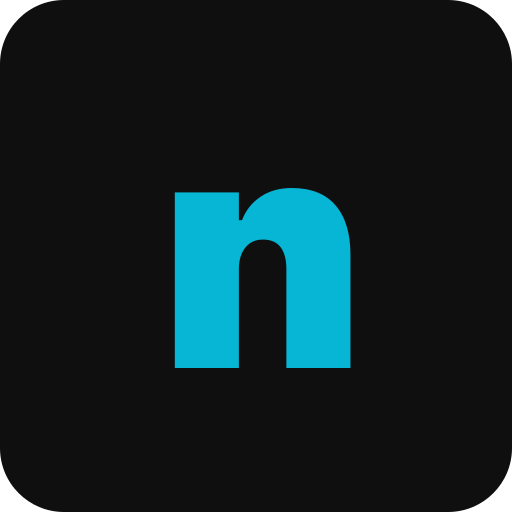
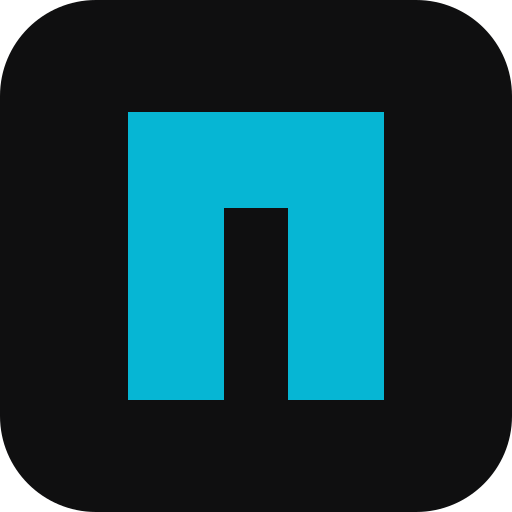
feat(nsgame): live ticker, positions, win shimmer, brand mark, nsgame.org
Big consolidation across five parallel work streams. nsgame is now a
real one-page betting product on a real domain.

==== nsgame.org live ====

DNS: nsgame.org + www.nsgame.org → 178.104.243.94 (Cloudflare DNS-only)
Cert: Let's Encrypt DNS-01 via existing CF token, auto-renew via certbot.timer
nginx: /etc/nginx/sites-available/nsgame.org → Traefik :8080, SSE-friendly
Dokploy app: nsgame (id b-VaItI-zY0kdiLfMoBkQ), nixpacks build, mirror
  at github.com/General-Market/nsgame
Webhook: https://generalmarket.io/_dokploy/api/deploy/sbIOAWK7EU0hkMneh7skz
Postgres reach: 172.17.0.1 / 172.18.0.1 (docker swarm — host.docker.internal
  doesn't resolve in swarm mode); pg_hba opened for 172.17/172.18/10.0
Auto-deploy: scripts/sync-nsgame.sh on every push that touches nsgame/
nixpacks.toml: pinned Node 20, npm install --ignore-scripts (Trezor usb
  native build was failing without libusb headers)

==== Live data ====

useSourceHistory + /api/sources/[id]/history — 30-min ring buffer,
proxies to data-node graceful empty.
useNextSlotForCatalog — auto-advance helper.
DualTimer — close + settle countdowns with twin progress bars; auto-flips
  to 'settling' state then auto-advances to next slot at settlement.
QuoteDrift — recent bets enriched with implied YES% at the moment,
  newest-first list + sparkline of YES% drift.

==== User positions + win shimmer ====

/api/positions/[wallet] — server proxy joins bet_placed / market_closed /
  market_resolved / claimed in one query.
[…]

diff --git a/nsgame/components/markets/BetSheet.tsx b/nsgame/components/markets/BetSheet.tsx
@@ -17,6 +17,7 @@ import {
 } from '@/lib/markets/hooks'
 import { CountdownTimer } from './CountdownTimer'
 import FaucetButton from './FaucetButton'
+import { MyPositions } from './MyPositions'
 
 // Bottom sheet on mobile. Right drawer on desktop. The size of the
 // commitment is small; the framing should match.
@@ -155,8 +156,10 @@ export function BetSheet({ slot, onClose }: BetSheetProps) {
             exit={{ y: '100%', opacity: 0 }}
             transition={{ type: 'spring', stiffness: 320, damping: 32 }}
           >
-            <div className="flex items-start justify-between gap-3 border-b border-zinc-200 px-5 py-4">
-              <div className="space-y-1">
+            <div className="border-b border-zinc-200 px-5 pb-4 pt-3">
+              <MyPositions compact className="mb-3" />
+              <div className="flex items-start justify-between gap-3">
+                <div className="space-y-1">
                 <p className="font-mono text-[10px] uppercase tracking-[0.12em] text-zinc-500">
                   {slot.sourceName.replace(/^tubes_/, '')} · closes in{' '}
                   <CountdownTimer target={slot.closeTime} closedLabel="closed" />
@@ -189,6 +192,7 @@ export function BetSheet({ slot, onClose }: BetSheetProps) {
                   <path strokeLinecap="round" strokeLinejoin="round" d="M6 6l12 12M6 18L18 6" />
                 </svg>
               </button>
+              </div>
             </div>
 
             <div className="flex-1 space-y-5 overflow-y-auto px-5 py-5">

diff --git a/nsgame/app/icon.tsx b/nsgame/app/icon.tsx
@@ -3,8 +3,7 @@ import { ImageResponse } from 'next/og'
 export const size = { width: 32, height: 32 }
 export const contentType = 'image/png'
 
-// Favicon — charcoal tile, uniform 8px corners, single teal lowercase n.
-// Mirrors /public/brand/nsgame-icon.svg.
+// Favicon — geometric n monogram, teal on charcoal. Mirrors /public/brand/nsgame-icon.svg.
 export default function Icon() {
   return new ImageResponse(
     (
@@ -12,20 +11,19 @@ export default function Icon() {
         style={{
           width: '100%',
           height: '100%',
-          background: '#0F0F10',
-          borderRadius: 4,
           display: 'flex',
           alignItems: 'center',
           justifyContent: 'center',
-          color: '#06B6D4',
-          fontSize: 22,
-          fontWeight: 800,
-          letterSpacing: -1,
-          lineHeight: 1,
-          fontFamily: 'system-ui, -apple-system, sans-serif',
+          background: '#0F0F10',
+          borderRadius: 6,
         }}
       >
-        n
+        <svg width="32" height="32" viewBox="0 0 64 64" xmlns="http://www.w3.org/2000/svg">
+          <rect width="64" height="64" rx="12" ry="12" fill="#0F0F10" />
+          <rect x="16" y="14" width="32" height="12" fill="#06B6D4" />
+          <rect x="16" y="14" width="12" height="36" fill="#06B6D4" />
+          <rect x="36" y="18" width="12" height="32" fill="#06B6D4" />
+        </svg>
       </div>
     ),
     { ...size },

diff --git a/nsgame/app/apple-icon.tsx b/nsgame/app/apple-icon.tsx
@@ -3,7 +3,7 @@ import { ImageResponse } from 'next/og'
 export const size = { width: 180, height: 180 }
 export const contentType = 'image/png'
 
-// Apple touch icon — same charcoal tile, larger canvas, single teal n.
+// Apple touch icon — geometric n monogram, teal on charcoal, larger canvas.
 // iOS rounds the outer corners itself; we hold consistent inner geometry.
 export default function AppleIcon() {
   return new ImageResponse(
@@ -12,19 +12,17 @@ export default function AppleIcon() {
         style={{
           width: '100%',
           height: '100%',
-          background: '#0F0F10',
           display: 'flex',
           alignItems: 'center',
           justifyContent: 'center',
-          color: '#06B6D4',
-          fontSize: 124,
-          fontWeight: 800,
-          letterSpacing: -4,
-          lineHeight: 1,
-          fontFamily: 'system-ui, -apple-system, sans-serif',
+          background: '#0F0F10',
         }}
       >
-        n
+        <svg width="180" height="180" viewBox="0 0 64 64" xmlns="http://www.w3.org/2000/svg">
+          <rect x="16" y="14" width="32" height="12" fill="#06B6D4" />
+          <rect x="16" y="14" width="12" height="36" fill="#06B6D4" />
+          <rect x="36" y="18" width="12" height="32" fill="#06B6D4" />
+        </svg>
       </div>
     ),
     { ...size },

diff --git a/nsgame/components/markets/NavBar.tsx b/nsgame/components/markets/NavBar.tsx
@@ -1,5 +1,6 @@
 'use client'
 
+import Image from 'next/image'
 import { useEffect, useState } from 'react'
 import { useUnifiedWalletContext } from '@jup-ag/wallet-adapter'
 import { useWallet } from '@/hooks/useWallet'
@@ -18,10 +19,15 @@ export function NavBar() {
   return (
     <header className="sticky top-0 z-40 border-b border-zinc-200/60 bg-white/85 backdrop-blur supports-[backdrop-filter]:bg-white/70">
       <div className="mx-auto flex h-14 max-w-7xl items-center justify-between px-4 sm:h-16 sm:px-6">
-        <a href="/" className="flex items-center gap-1.5 shrink-0">
-          <span className="text-[18px] font-semibold tracking-[-0.02em] text-zinc-900">
-            nsgame
-          </span>
+        <a href="/" className="flex items-center gap-2 shrink-0" aria-label="nsgame home">
+          <Image
+            src="/brand/nsgame-logo.svg"
+            alt="nsgame"
+            width={150}
+            height={40}
+            priority
+            className="h-5 w-auto sm:h-6"
+          />
           <span className="hidden font-mono text-[11px] font-light text-zinc-300 sm:inline">
             ·
           </span>

diff --git a/nsgame/components/markets/QuoteDrift.tsx b/nsgame/components/markets/QuoteDrift.tsx
@@ -3,7 +3,17 @@
 import { useMemo } from 'react'
 import { useNowSecs } from './CountdownTimer'
 import { SparkLine } from './SparkLine'
-import type { QuoteDriftEntry } from '@/lib/markets/hooks'
+
+// Shape produced by useQuoteDrift in lib/markets/hooks.ts.
+export interface QuoteDriftEntry {
+  sig: string
+  ts: number
+  side: 'yes' | 'no'
+  owner: string
+  amount: bigint
+  yesPctAtMoment: number
+  yesPctAfter: number
+}
 
 // Quote history. Newest first. Each row carries the implied YES odds at
 // the instant the bet landed — the trail of how the pool got to where it
